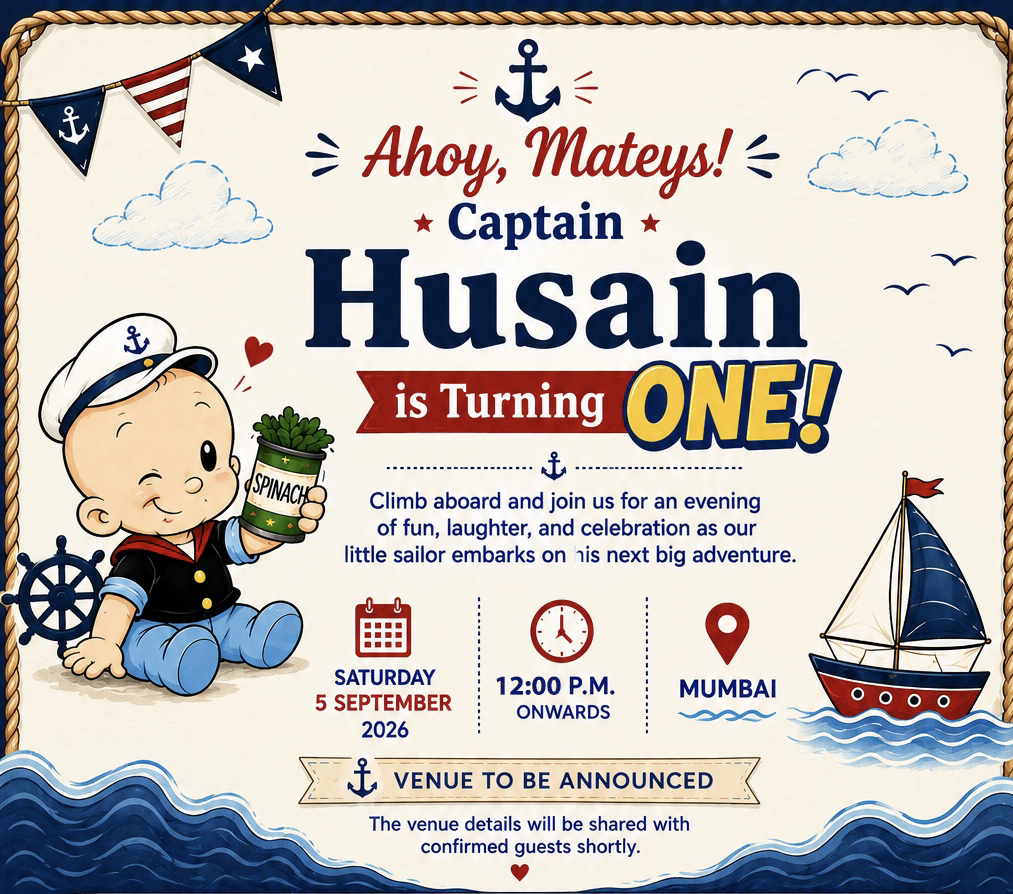
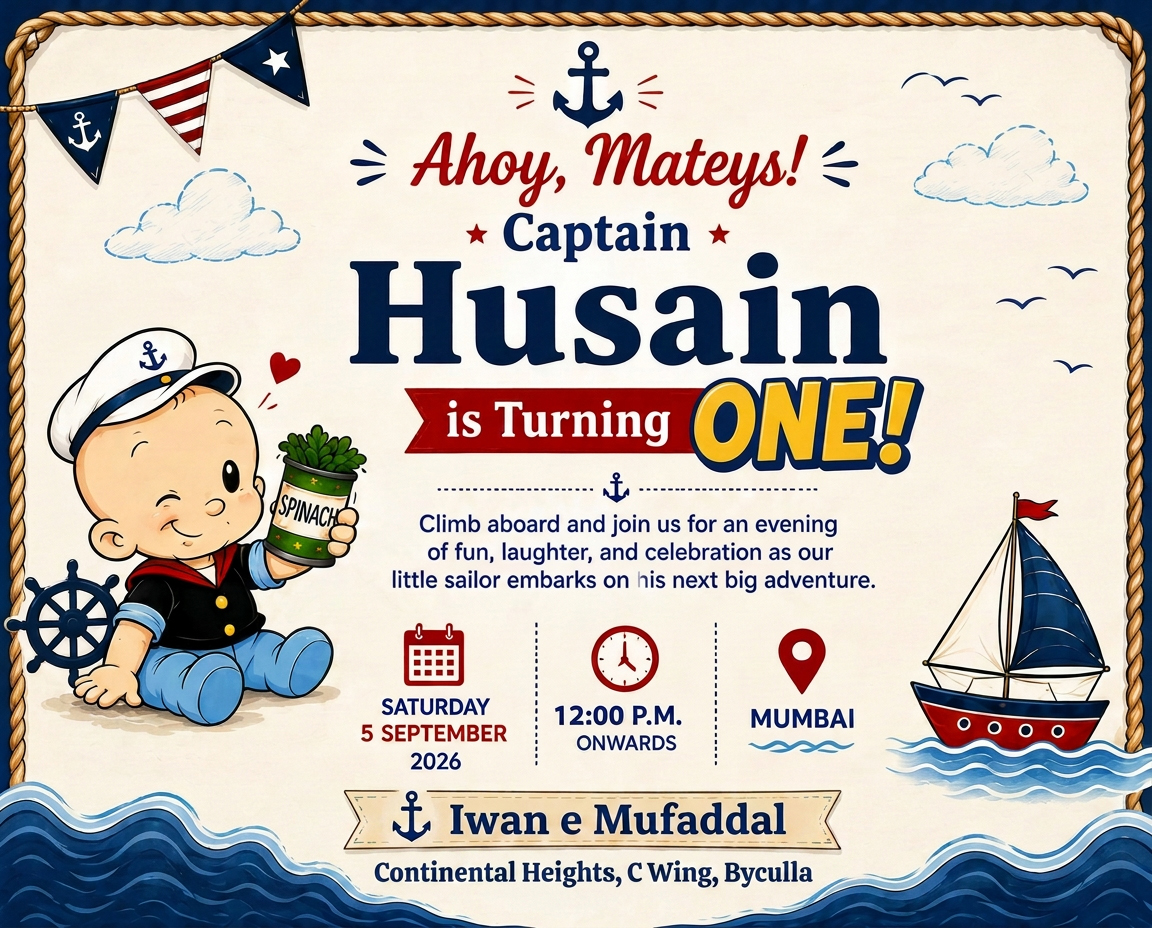
Update Husain RSVP invitation artwork

diff --git a/dashboard.html b/dashboard.html
@@ -1,5 +1,5 @@
 <!DOCTYPE html>
-<html lang="en"><head><meta charset="UTF-8"><meta name="viewport" content="width=device-width, initial-scale=1, viewport-fit=cover"><meta name="theme-color" content="#163D72"><title>Husain RSVP Dashboard</title><link rel="stylesheet" href="dashboard.css"><script src="https://cdn.jsdelivr.net/npm/chart.js@4.4.4/dist/chart.umd.min.js" defer></script><script src="https://cdn.jsdelivr.net/npm/qrcode@1.5.4/build/qrcode.min.js" defer></script><script src="dashboard.js?v=20260825-1" defer></script></head>
+<html lang="en"><head><meta charset="UTF-8"><meta name="viewport" content="width=device-width, initial-scale=1, viewport-fit=cover"><meta name="theme-color" content="#163D72"><title>Husain RSVP Dashboard</title><link rel="stylesheet" href="dashboard.css"><script src="https://cdn.jsdelivr.net/npm/chart.js@4.4.4/dist/chart.umd.min.js" defer></script><script src="https://cdn.jsdelivr.net/npm/qrcode@1.5.4/build/qrcode.min.js" defer></script><script src="dashboard.js?v=20260831-1" defer></script></head>
 <body>
 <header class="app-header"><div class="brand"><span class="brand-icon"><svg viewBox="0 0 64 64" aria-hidden="true"><circle cx="32" cy="10" r="6" fill="none" stroke="currentColor" stroke-width="5"/><path d="M32 16v29M22 27h20M16 36c0 11 7 18 16 18s16-7 16-18" fill="none" stroke="currentColor" stroke-width="5" stroke-linecap="round"/><path d="M12 37l4-5 5 4M52 37l-4-5-5 4" fill="none" stroke="currentColor" stroke-width="5" stroke-linecap="round" stroke-linejoin="round"/></svg></span><div><p>Captain Husain’s Celebration</p><h1>RSVP Dashboard</h1></div></div><button id="refreshBtn" class="sync-button" type="button"><span class="svg-icon"><svg viewBox="0 0 24 24" aria-hidden="true"><path d="M20 11a8 8 0 1 0 2 5.3" fill="none" stroke="currentColor" stroke-width="2" stroke-linecap="round"/><path d="M20 4v7h-7" fill="none" stroke="currentColor" stroke-width="2" stroke-linecap="round" stroke-linejoin="round"/></svg></span><span><strong>Sync</strong><small id="lastUpdatedText">Not synced</small></span></button></header>
 <main>

diff --git a/dashboard.js b/dashboard.js
@@ -2,7 +2,7 @@
 const API_URL="https://script.google.com/macros/s/AKfycbwo6kNofaeRAnITieVxDRccMurllRKSFmO-cElHxIYI3ytJJn3MfjKCOvtqdtva93_q/exec",KEY="212-34";
 let key="",data=null,filtered=[],filteredInvitations=[],editing=null,editingInvitation=null,deleting=null,charts={},dashboardLoaded=false;
 const $=id=>document.getElementById(id);
-const INVITATION_IMAGE_PATH="husain-invite.jpg";
+const INVITATION_IMAGE_PATH="husain-invite.jpg?v=20260831-1";
 
 document.addEventListener("DOMContentLoaded",()=>{
   bind(); $("adminKeyInput").value=KEY;

diff --git a/index.html b/index.html
@@ -11,7 +11,7 @@
   <main class="page-shell">
     <form id="rsvpForm" class="invitation" novalidate>
       <img
-        src="husain-rsvp-background.jpeg?v=20260819"
+        src="husain-rsvp-background.jpeg?v=20260831-1"
         class="invitation-image"
         alt="Captain Husain's first birthday invitation"
         draggable="false"

diff --git a/CHANGELOG.md b/CHANGELOG.md
@@ -1,5 +1,27 @@
 # Production Release Changelog
 
+## Husain RSVP Invitation Artwork Update
+
+Modified files:
+
+- `husain-rsvp-background.jpeg`
+  - Replaced with the updated production RSVP homepage artwork.
+
+- `husain-invite.jpg`
+  - Replaced with the updated production personalized invitation share artwork.
+
+- `index.html`
+  - Updates the RSVP homepage artwork cache-busting query string.
+
+- `dashboard.js`
+  - Updates the native invitation share image fetch path cache-busting query string while preserving the shared file name.
+
+- `dashboard.html`
+  - Updates the dashboard script cache-busting query string so the new native-share image fetch path reaches production.
+
+- `CHANGELOG.md`
+  - Adds this production artwork update entry.
+
 ## Dashboard API Parsing and Cache Refresh
 
 Modified files:
